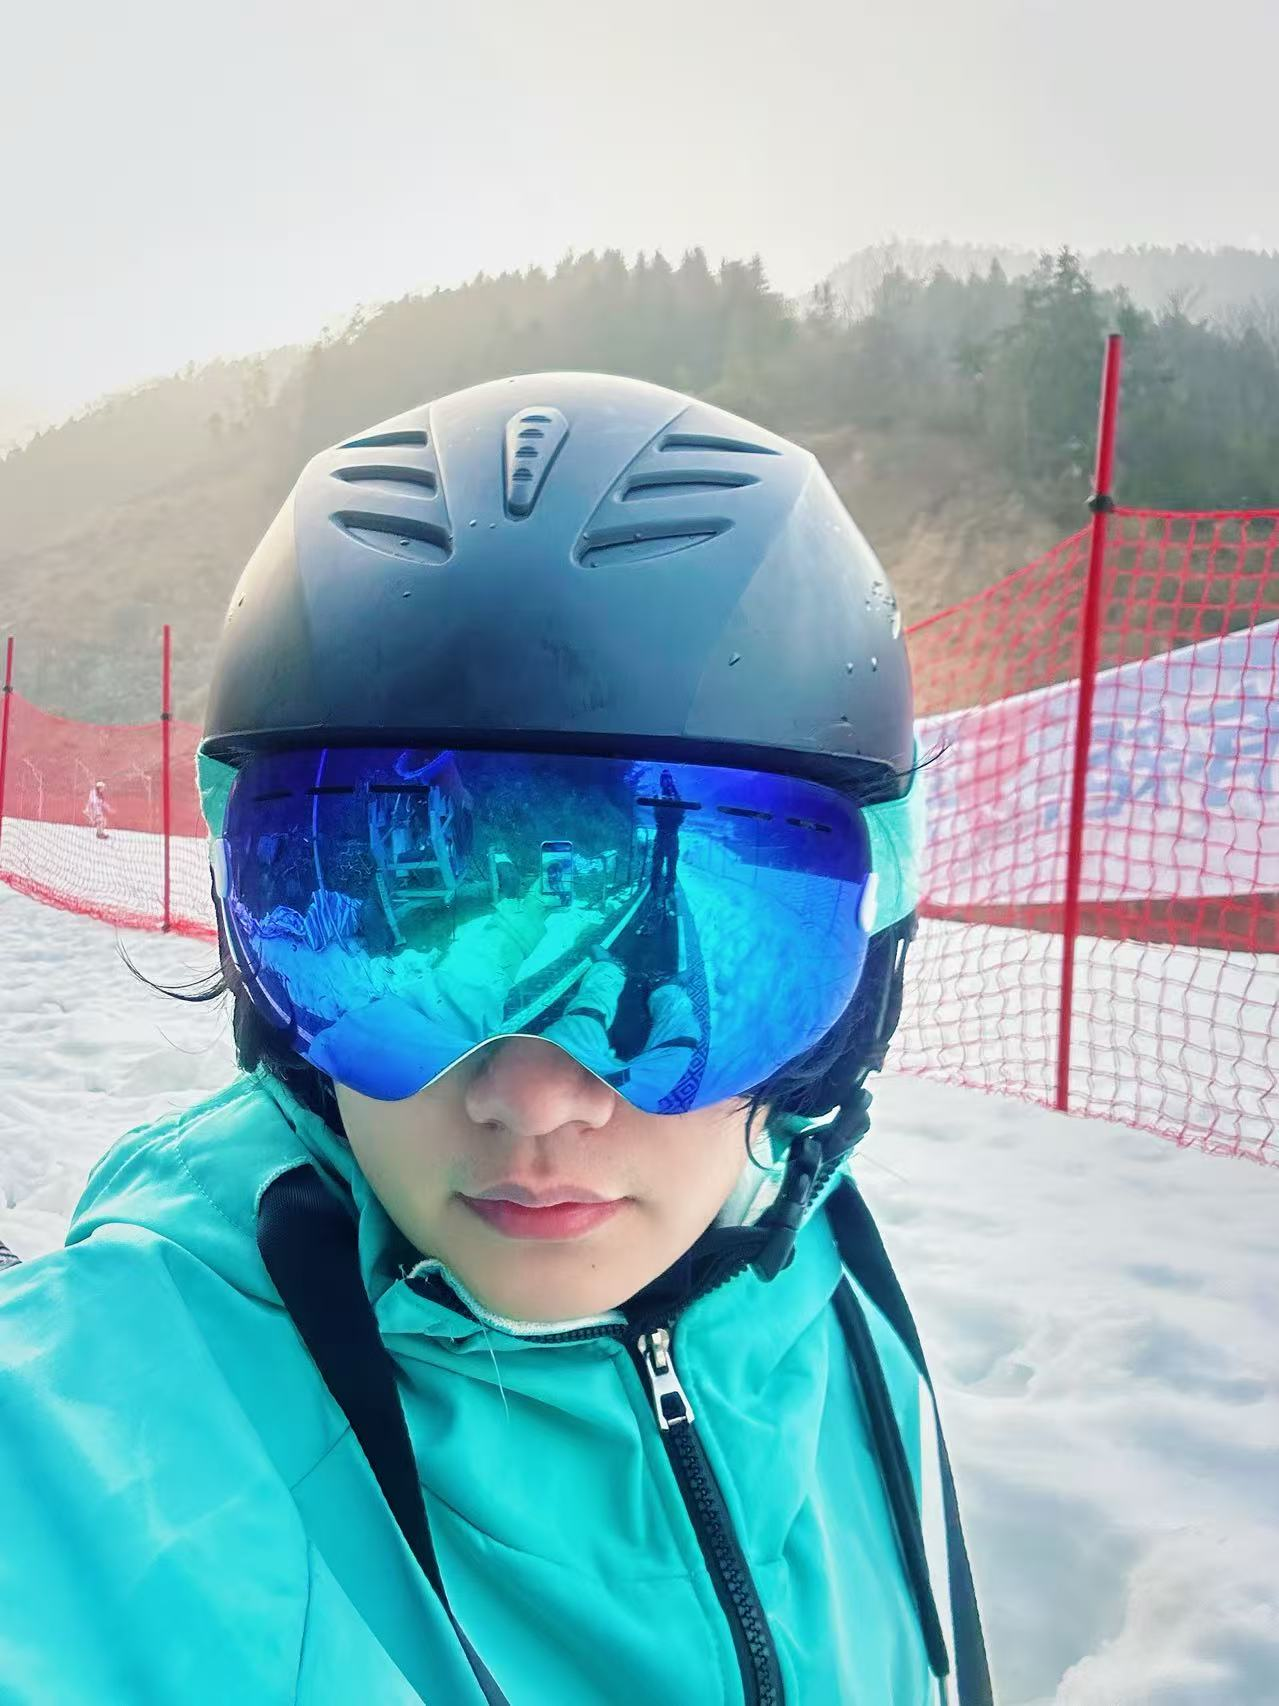
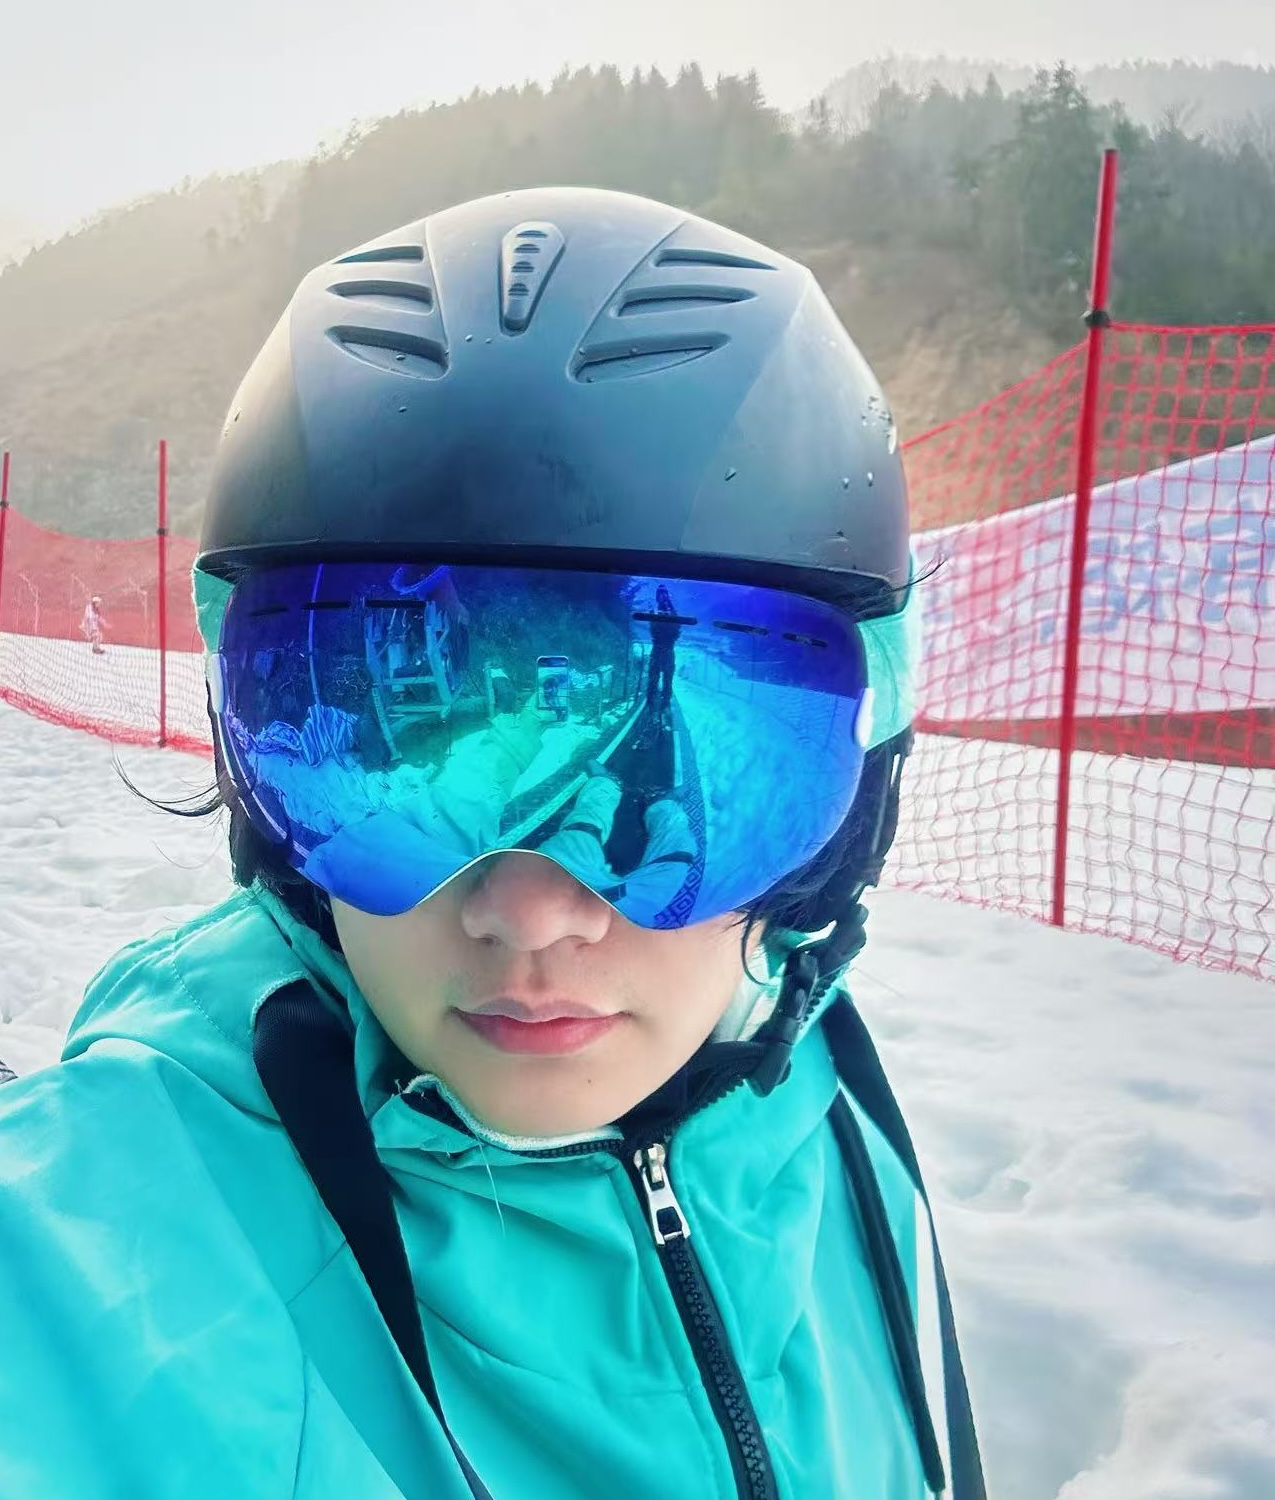
+

diff --git a/_internships/baidu-ernie.md b/_internships/baidu-ernie.md
@@ -1,21 +1,25 @@
 ---
 layout: page
 title: Baidu
-description: Research Intern, ERNIE Team — Coding Agentic RL & OPD
+description: Foundation Model Algorithm Intern, ERNIE Team · May 2026 – Present
 importance: 1
-category: research
 ---
 
-Research intern on the ERNIE team, working on Coding Agentic RL and OPD.
+Selected for the ERNIE Rising Star top-talent program.
 
-<!--
-Fill in the details below, then copy this file for each of your other internships
-(NIO, SAP, Alibaba, ByteDance, Meituan, Kuaishou).
+#### RL Training and Pipeline Governance
 
-Front matter fields the card grid uses:
-  title        company name, shown as the card heading
-  description  one line under the heading — put your role and dates here
-  img          optional path to a logo/cover image, e.g. assets/img/baidu.png
-  importance   sort order on the /internships/ page (1 = first)
-  category     only used if you re-enable `display_categories` in _pages/internships.md
--->
+- Worked on Coding Agentic RL training for ERNIE Lite, covering reward modeling and the design of optimization objectives.
+- Ran trajectory analysis, anomaly triage, and data diagnostics jointly with the Infra and algorithm teams, cutting the environment anomaly rate from roughly 8% to under 1%.
+
+#### RL Algorithm Optimization
+
+- Reworked advantage computation and loss backpropagation for trajectories under Context Management, along with sub-agent trajectory handling, improving training stability and effective sample utilization.
+- Led the attribution and handling mechanism for abnormally terminated trajectories, substantially reducing reward hacking risk and wasted training compute.
+- Raised the ERNIE Lite score on SWE-bench Verified from roughly 73 to 78.
+
+#### Single-Step MOPD Training
+
+- Derived the per-step mixing ratio of the training set from large volumes of production data, aligning the training distribution with the real step distribution.
+- Mixed both teacher and student history into the training context to reduce bias from error accumulation.
+- Redesigned the top-k selection strategy while holding K at parity with the original scheme, so compute cost stayed essentially unchanged; the resulting balance of efficiency and effectiveness lifted final scores by roughly 5% on average.

diff --git a/_internships/meituan-longcat.md b/_internships/meituan-longcat.md
@@ -1,0 +1,26 @@
+---
+layout: page
+title: Meituan
+description: LLM Algorithm Intern, LongCat Interaction · Aug 2025 – Feb 2026
+importance: 3
+---
+
+#### WOWService
+
+- Contributed to an intelligent interaction system built on LLM tuning and multi-agent collaboration, now deployed at scale in the Meituan app and documented in a published technical report.
+- Owned the design and engineering of the end-to-end DPO training pipeline, lifting evaluation performance across 8 core issue scenarios by roughly 11% on average over the pre-training baseline.
+
+#### Model Robustness Research
+
+- Systematically analyzed model stability under several classes of perturbation and proposed a post-training robustness enhancement method.
+- Gained roughly 5% and 2% over SOTA on LLaMA and Qwen 7B respectively, with gains of roughly 4% and 3% holding in Qwen 14B and 72B scaling experiments.
+
+#### Dynamic Data Mixing
+
+- Ported the ADO dynamic data-mixing algorithm to the company's Megatron-based training framework, adaptively planning the next batch's data distribution from task category and current training state.
+- Improved overall model performance by roughly 5% on average with training data and model architecture held constant.
+
+#### Enterprise Knowledge Assistant
+
+- Independently built an enterprise knowledge agent on the internal platform, combining knowledge-base QA, document retrieval, and summarization.
+- Rolled out for daily use across a large team, serving 200+ internal calls per day and cutting repeated search and document cleanup work.

diff --git a/_internships/kuaishou-klear.md b/_internships/kuaishou-klear.md
@@ -1,0 +1,23 @@
+---
+layout: page
+title: Kuaishou
+description: Foundation Model Algorithm Intern, Klear Team · Feb 2026 – May 2026
+importance: 2
+---
+
+Foundation Model and Applications Department, Klear foundation model team.
+
+#### Data Pipeline and Synthesis
+
+- Decomposed and categorized 100+ high-quality novels along multiple dimensions, producing a taxonomy for novel data, a domain knowledge base, and a structured format specification.
+- Built data synthesis and quality filtering on top of that system, yielding roughly 6k high-quality post-training samples and expanding the pool of usable data by about 60x.
+
+#### Novel Base Model Training
+
+- Designed a two-stage Plan + Response data format and training paradigm, plus a chapter-by-chapter, multi-turn rewriting pipeline for long-form narrative.
+- Internal evaluation score rose from roughly 62 to 83 (+21), with format adherence above 98% and consistency above 95%.
+
+#### Creative Writing RL
+
+- Designed and validated a Tree-Rollout RL training scheme for creative writing on top of the two-stage generation framework.
+- Improved on the contemporaneous SOTA approach by more than 5% across all four creative-writing benchmarks. Submitted to EMNLP 2026.

diff --git a/_internships/bytedance-ecommerce.md b/_internships/bytedance-ecommerce.md
@@ -1,0 +1,16 @@
+---
+layout: page
+title: ByteDance
+description: Algorithm Intern, Global E-commerce · Jan 2025 – Aug 2025
+importance: 4
+---
+
+#### Model Tuning
+
+- Designed an uplift model to tune the traffic allocation algorithm behind product promotion, then optimized it end to end across model architecture, feature engineering, and data processing.
+- Break-0 and break-5 product counts both rose 2.63%, with attainment rates up 4.72% and 0.52%; OPM of promoted products rose 23.32% and GPM rose 3.19%.
+
+#### SAINT Transformer Productionization
+
+- Independently handled training adaptation and prediction-task migration for SAINT Transformer on the company GPU cluster.
+- Reached close to 80% accuracy on break-5 prediction for the top 10k products, roughly 5% above the baseline model.

diff --git a/_internships/alibaba-cloud.md b/_internships/alibaba-cloud.md
@@ -1,0 +1,8 @@
+---
+layout: page
+title: Alibaba
+description: Algorithm Intern, Alibaba Cloud · 2023 – 2024
+importance: 5
+---
+
+Worked on LLM reasoning, exploring approaches for improving multi-step reasoning quality and evaluating them against internal benchmarks.

diff --git a/_internships/sap.md b/_internships/sap.md
@@ -1,0 +1,8 @@
+---
+layout: page
+title: SAP
+description: Software Development Intern · 2023
+importance: 6
+---
+
+Android application development, contributing features and fixes alongside the product engineering team.

diff --git a/_internships/nio.md b/_internships/nio.md
@@ -1,0 +1,8 @@
+---
+layout: page
+title: NIO
+description: Software Development Intern · 2022
+importance: 7
+---
+
+Development and testing work on an in-vehicle operating system.
